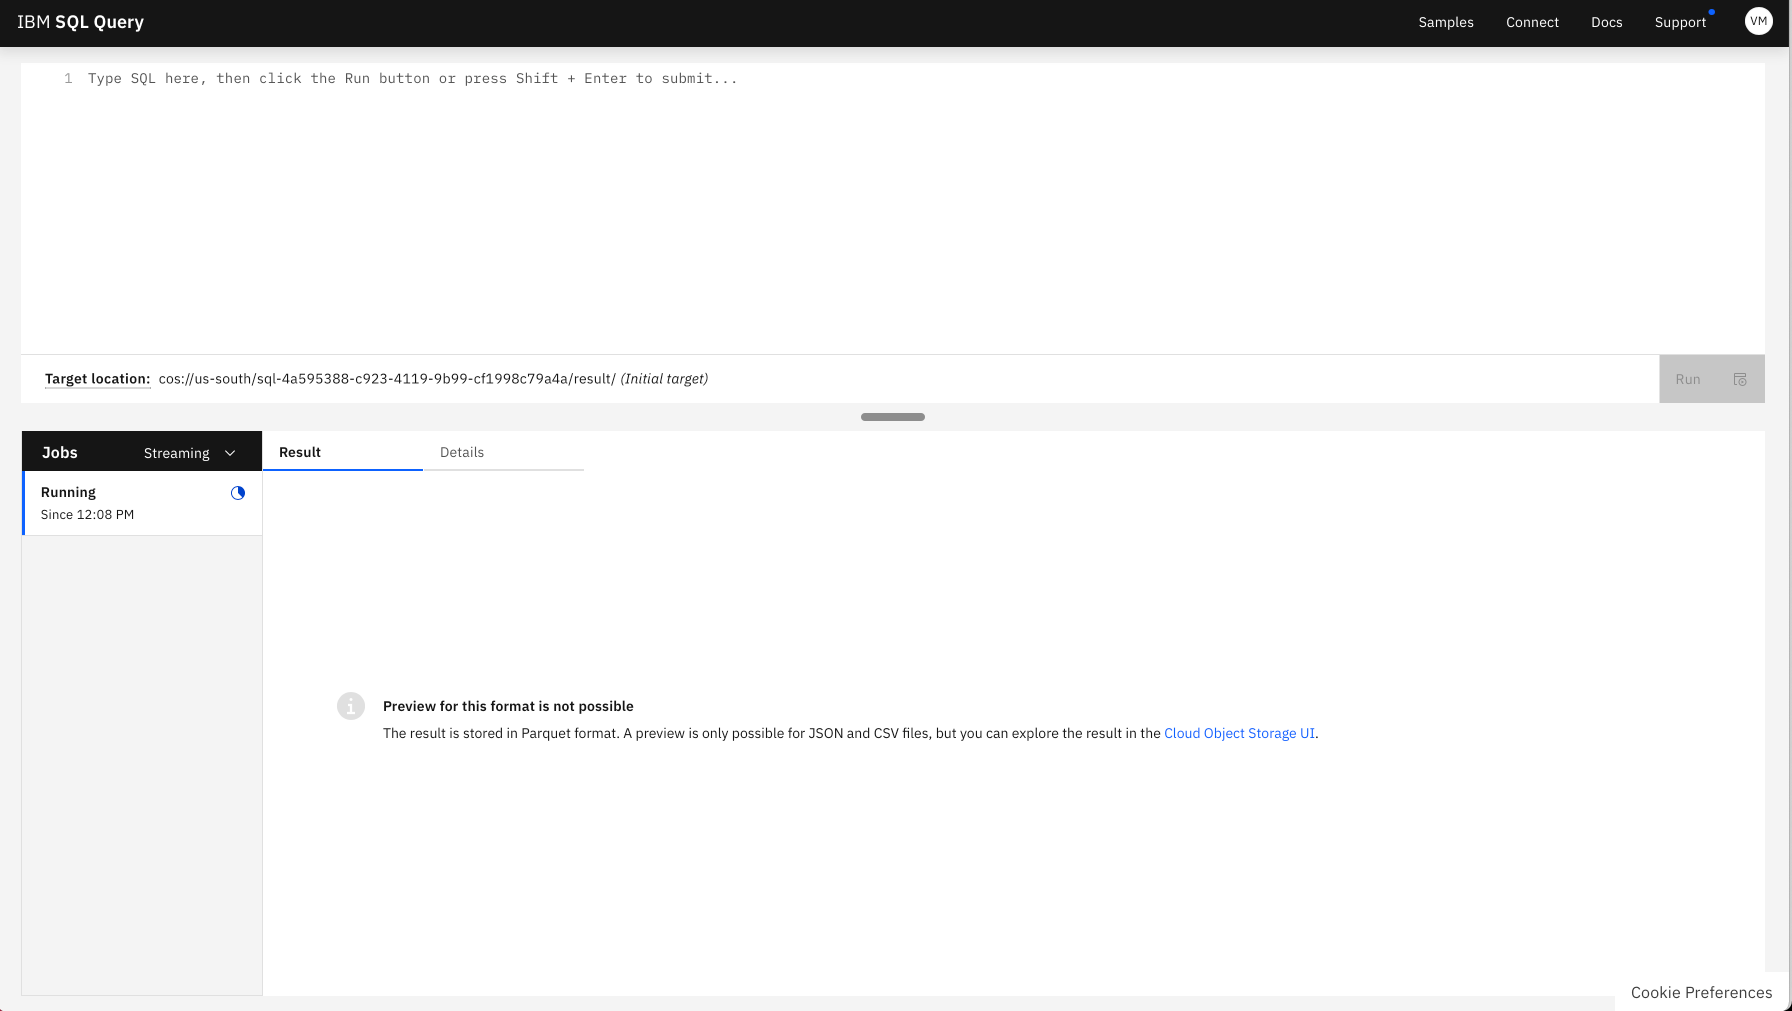
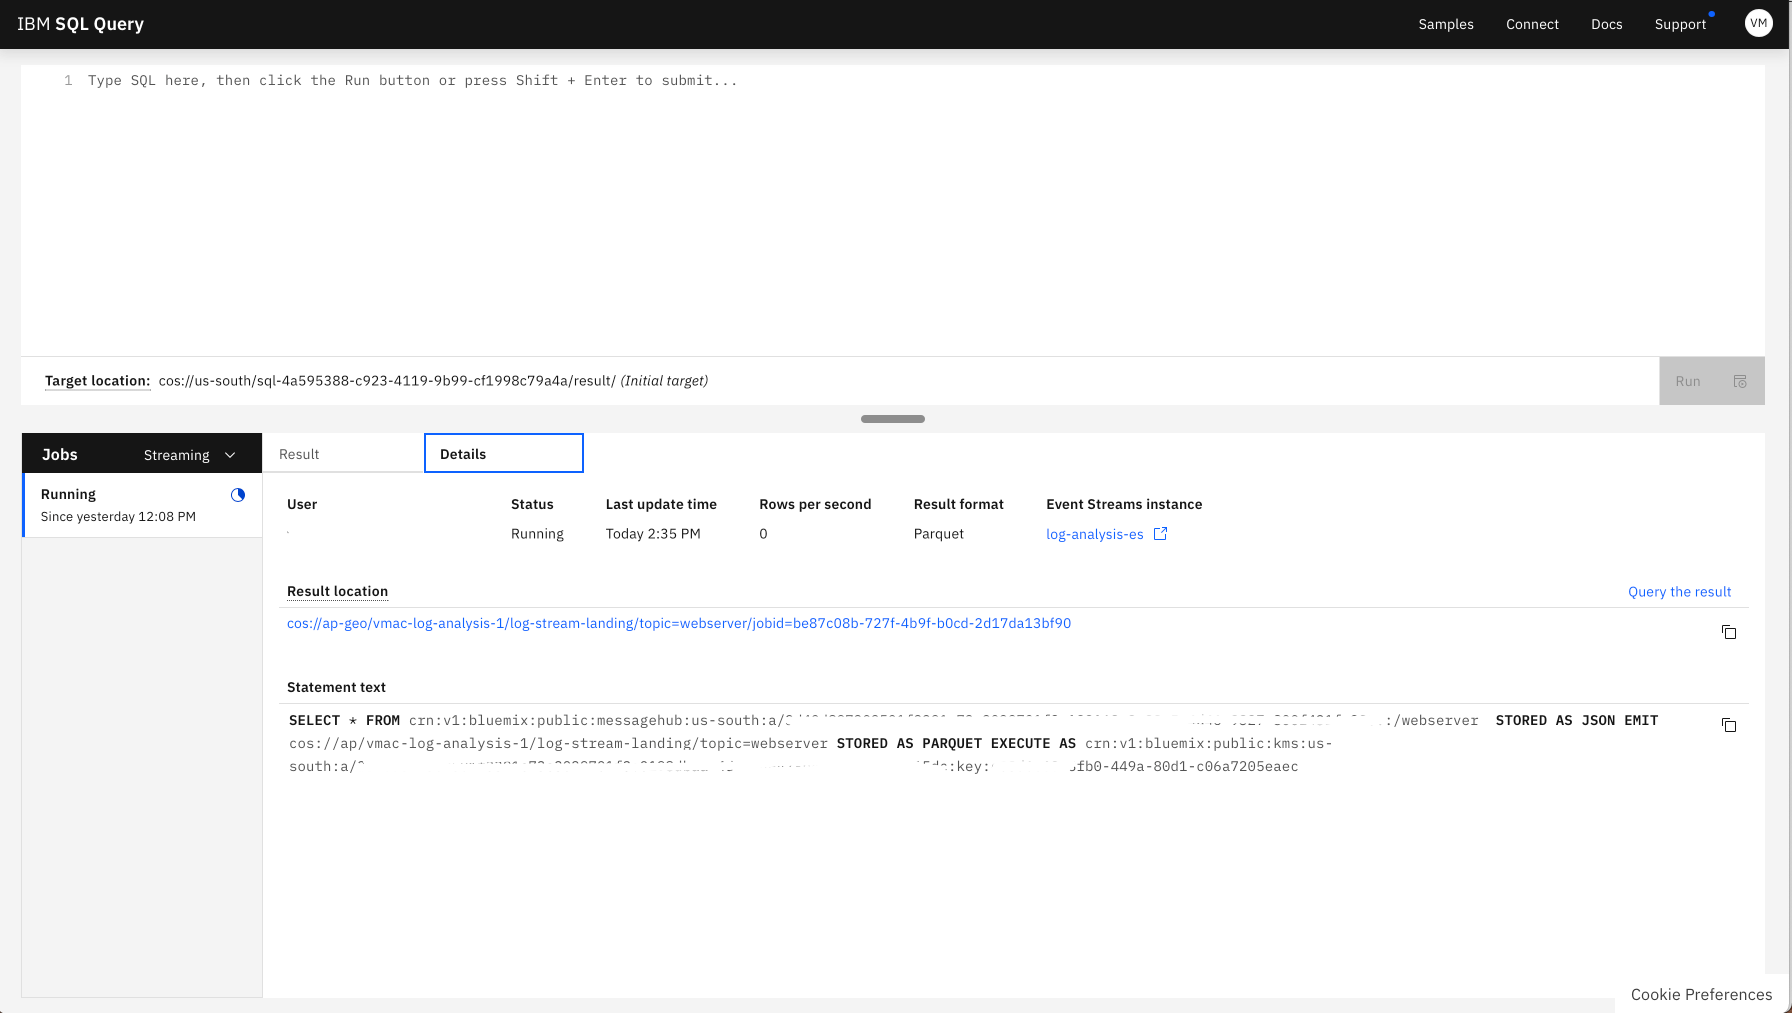
Updated based on review comments

diff --git a/big-data-log-analytics.md b/big-data-log-analytics.md
@@ -62,35 +62,19 @@ While this tutorial focuses on log analysis, it is applicable to other scenarios
 {: #big-data-log-analytics-prereqs}
 
 This tutorial requires:
-* {{site.data.keyword.cloud_notm}} CLI,
-   * {{site.data.keyword.cos_full_notm}} plugin (`cloud-object-storage`),
 * `git` to clone source code repository.
 
 <!--##istutorial#-->
 You will find instructions to download and install these tools for your operating environment in the [Getting started with tutorials](/docs/solution-tutorials?topic=solution-tutorials-tutorials) guide.
 <!--#/istutorial#-->
 
-In addition, [install Node.js](https://nodejs.org).
+In addition, [install the latest version of Node.js](https://nodejs.org).
 
 ## Create services
 {: #big-data-log-analytics-setup}
 {: step}
 
 In this section, you will create the services required to perform analysis of log events generated by your applications.
-
-### Encrypt your data and secure your keys
-{: #big-data-log-analytics-new-kp}
-
-Key Protect helps you provision encrypted keys for apps across IBM Cloud services. It will be used to encrypt the storage bucket, stored SQL query jobs and securely store the service ID for stream landing.
-
-1. Create an instance of [{{site.data.keyword.keymanagementserviceshort}}](https://{DomainName}/catalog/services/kms).
-   1. Select a **location**.
-   2. Set the name to **log-analysis-kp**.
-   3. Select the **resource group** where to create the service instance and click **Create**.
-2. Under **Keys**, click the **Add** button to create a new root key.
-   1. Set the key type to **Root key**.
-   2. Set the name to **log-analysis-root-enckey**.
-   3. Then **Add key**.
 
 ### Stream messages in real-time
 {: #big-data-log-analytics-new-eventstreams}
@@ -108,6 +92,22 @@ Key Protect helps you provision encrypted keys for apps across IBM Cloud service
    1. Provide a name for the credential - `es-for-log-analysis`.
    2. select **Writer** as the role and click **Add**.
 4. Make note of the values. They will be used in the `event-streams.config` file in the next section.
+
+### Encrypt your data and secure your keys
+{: #big-data-log-analytics-new-kp}
+
+{{site.data.keyword.keymanagementserviceshort}} helps you provision encrypted keys for apps across {{site.data.keyword.cloud_notm}} services. 
+
+In this tutorial, {{site.data.keyword.keymanagementserviceshort}} service will be used to encrypt the storage bucket, stored SQL query jobs and securely store the service ID for stream landing.
+
+1. Create an instance of [{{site.data.keyword.keymanagementserviceshort}}](https://{DomainName}/catalog/services/kms).
+   1. Select a **location**.
+   2. Set the name to **log-analysis-kp**.
+   3. Select the **resource group** where to create the service instance and click **Create**.
+2. Under **Keys**, click the **Add** button to create a new root key.
+   1. Set the key type to **Root key**.
+   2. Set the name to **log-analysis-root-enckey**.
+   3. Then **Add key**.
 
 ### Setup storage to persist the messages from {{site.data.keyword.messagehub}}
 {: #big-data-log-analytics-new-cos}
@@ -138,7 +138,7 @@ Finally create the bucket.
 2. Under **Buckets**, create a **Custom bucket** named `<your-initial>-log-analysis` with **Cross Region** resiliency, a **Location** near to you and a **Smart Tier** storage class.
 3. Under **Service integrations (optional) / Encryption**, enable **Key management**
    1. Select the {{site.data.keyword.keymanagementserviceshort}} service instance created earlier by clicking on **Use existing instance**
-   2. Select **secure-file-storage-root-enckey** as the key and click **Associate key**.
+   2. Select **log-analysis-root-enckey** as the key and click **Associate key**.
 
 ### Stream land the log data to {{site.data.keyword.cos_short}}
 {: #big-data-log-analytics-new-sqlquery}
@@ -147,11 +147,11 @@ Finally create the bucket.
    1. Select a region.
    2. Select the **Standard** plan.
    3. Set the **Service name** to **log-analysis-sql**.
-   4. Select a **Resource group** and click **Create**.
-   5. Select **Encrypt with user-managed-key** and then select the {{site.data.keyword.keymanagementserviceshort}} service `log-analysis-kp` with the root key.
+   4. Select a **Resource group**.
+   5. Select **Encrypt with user-managed key** and then select the {{site.data.keyword.keymanagementserviceshort}} service `log-analysis-kp` with the root key.
    6. Click **Create**.
 
-### {{site.data.keyword.iae_short}}
+### Inspect log data with {{site.data.keyword.iae_short}}
 {: #big-data-log-analytics-new-iae}
 
 1. Create an instance of [{{site.data.keyword.iae_short}}](https://{DomainName}/catalog/services/analytics-engine).
@@ -179,11 +179,13 @@ Finally create the bucket.
       - `identifier` is the name of the name of the {{site.data.keyword.cos_short}} service (`log-analysis-cos`),
       - `access_key_id` and `secret_access_key` are found in the service credentials created earlier.
       - `cosEndpoint` is a private endpoint to access the {{site.data.keyword.cos_short}} bucket.
-6. Click **Create**. Once the service is provisioned, go to **Manage** to retrieve the user name and password for the cluster. You may need to reset the cluster password.
-7. Under **Service credentials**, create **New credential**.
+6. Click **Create**. _The service provisioning may take upto 5 minutes. You can continue with the other steps of the tutorial_.
+7. Once the service is provisioned, go to **Manage** to retrieve the user name and password for the cluster. You may need to reset the cluster password.
+8. Under **Service credentials**, create **New credential**.
    * Provide `iae-for-log-analysis` as the credential name.
    * Select **Writer** as the role and click **Add**.
-8. From the credentials, make note of the `ssh` value giving the *ssh* command line to execute to connect to the cluster.
+9. From the credentials, make note of the `ssh` value giving the *ssh* command line to execute to connect to the cluster.
+
 
 ## Streams landing from {{site.data.keyword.messagehub}} to Cloud {{site.data.keyword.cos_short}}
 {: #big-data-log-analytics-configure-streams}
@@ -192,7 +194,9 @@ Finally create the bucket.
 ### Configure stream landing
 {: #big-data-log-analytics-streamlanding}
 
-In this section, you will learn how to run a fully-managed stream data ingestion from {{site.data.keyword.messagehub}} into Parquet on {{site.data.keyword.cos_full_notm}}. {{site.data.keyword.messagehub}} is directly integrated with the {{site.data.keyword.sqlquery_notm}} service, allowing for Streams landing from the {{site.data.keyword.messagehub}} for {{site.data.keyword.cloud_notm}} service into {{site.data.keyword.cloud_notm}} Data Lake on {{site.data.keyword.cos_full_notm}}.
+In this section, you will learn how to run a fully-managed stream data ingestion from {{site.data.keyword.messagehub}} into Parquet on {{site.data.keyword.cos_full_notm}}. {{site.data.keyword.sqlquery_notm}} is the key component in the Stream Landing approach. It is the service that connects to {{site.data.keyword.messagehub}} and copies the data to {{site.data.keyword.cos_full_notm}}.
+
+Parquet is an open source file format for Hadoop. Parquet stores nested data structures in a flat columnar format. Compared to the traditional approach where data is stored in rows, Parquet is more efficient in terms of storage and performance.
 
 1. In your browser, navigate to the [resource list](https://{DomainName}/resources) and under **Services and software**, click on {{site.data.keyword.messagehub}} `log-analysis-es` service.
 2. Select **Topics** from the navigation pane on the left.
@@ -209,7 +213,7 @@ In this section, you will learn how to run a fully-managed stream data ingestion
    5. Click **Start streaming data**.
    ![Stream landing configuration](images/solution31/stream_landing_configuration.png)
 
-You now see the status `Queued` for your topic. It can take one or two minutes until the streaming job is fully dispatched and up and running. You will see the status switch to `Running` at that point. In the context menu, you find a new option called `View stream landing configuration`.
+You now see the status `Queued` for your topic. It may take upto 5 minutes until the streaming job is fully dispatched and up and running. You will see the status switch to `Running` at that point. In the context menu, you find a new option called `View stream landing configuration`.
 
 
 ### Using Kafka console tools with {{site.data.keyword.messagehub}}
@@ -229,9 +233,9 @@ The streaming job is currently idle and awaiting messages. In this section, you 
    ```
    {: codeblock}
 3. Replace `USER` and `PASSWORD` in your `event-streams.config` file with the `user` and `password` values seen in **Service Credentials** from the {{site.data.keyword.messagehub}} service. Save `event-streams.config`.
-4. From the `bin` directory, run the following command. Replace `KAFKA_BROKERS_SASL` with the `kafka_brokers_sasl` value seen in **Service Credentials**. An example is provided.
+4. From the `bin` directory, run the following command. An example is provided.
     ```sh
-    ./kafka-console-producer.sh --broker-list KAFKA_BROKERS_SASL --producer.config event-streams.config --topic webserver
+    ./kafka-console-producer.sh --broker-list $(ibmcloud resource service-key es-for-log-analysis --output json | jq -r '.[0].credentials.kafka_brokers_sasl | join(",")') --producer.config event-streams.config --topic webserver
     ```
     {: pre}
     ```sh
@@ -255,30 +259,38 @@ You can check the landed data in the {{site.data.keyword.sqlquery_short}} UI and
 
 1. Navigate to the [resource list](https://{DomainName}/resources) and under **Services and software**, click on `log-analysis-sql` service.
 2. Click on **Launch {{site.data.keyword.sqlquery_short}} UI** to open the {{site.data.keyword.sqlquery_short}} UI. You should see the streaming job `Running`. 
-   ![SQL Query console](images/solution31/sql_query_console.png)
 3. Click on the **Details** tab to see the actual SQL statement that was submitted to {{site.data.keyword.sqlquery_short}} for the stream landing. 
+   ![SQL Query console](images/solution31/sql_query_console.png)
+
+   The Select statement would looks like 
+   ```sql
+   SELECT * FROM <EVENT_STREAMS_CRN>/webserver 
+   STORED AS JSON EMIT cos://<REGION>/<BUCKET_NAME>/logs-stream-landing/topic=webserver 
+   STORED AS PARQUET EXECUTE AS <KEY_PROTECT_CRN_WITH_KEY>
+   ```
+   {:codeblock}
 
    It is a SELECT statement from your {{site.data.keyword.messagehub}} instance and topic (identified via the unique CRN) and the selected data is emitted (EMIT) to your {{site.data.keyword.cos_short}} bucket AS PARQUET format. The operation is executed (EXECUTE) with the service ID's API key that is stored in the {{site.data.keyword.keymanagementserviceshort}} instance.
    {:tip}
 
 4. Click on the link in the `Result location` field, which opens the {{site.data.keyword.cos_short}} UI with a filter set to the objects that are being written by that job. 
+   ![](images/solution31/cos_object_view.png)
    
-   You see that there are a couple of metadata objects to track, such as the latest offset that has been consumed and landed. But, in addition, you can find the Parquet files with the actual payload data.
-   {:tip}
+   In the COS UI, switch to `object view` by clicking on the icon next to `Upload`, You should see that there are a couple of metadata objects to track, such as the latest offset that has been consumed and landed. But, in addition, you can find the Parquet files with the actual payload data.
+   {:tip} 
 
-4. Return to the {{site.data.keyword.sqlquery_short}} UI and Click on **Query the result** and then click **Run** to execute a `Batch job`. You should see the query in the panel pointing to the {{site.data.keyword.cos_short}} file (under `FROM`) with the log message(s) you sent above. Wait for the job to change to `Completed`.
+5. Return to the {{site.data.keyword.sqlquery_short}} UI and Click on **Query the result** and then click **Run** to execute a `Batch job`. You should see the query in the panel pointing to the {{site.data.keyword.cos_short}} file (under `FROM`) with the log message(s) you sent above. Wait for the job to change to `Completed`.
+6. Click on the **Results** tab to see the log messages in a tabular format.
    
-   The query also saves the result to a `CSV` file under a different bucket with name `sql-<SQL_QUERY_GUID>`. Check the `INTO` part of the query.
+   The query saves the result to a `CSV` file under a different bucket with name `sql-<SQL_QUERY_GUID>`. Check the `INTO` part of the query.
    {:tip}
-
-5. Click on the **Results** tab to see the log messages in a tabular format.
 
 ### Increasing message load
 {: #big-data-log-analytics-streamsload}
 
 To view conditional handling in your Streams flow, you will increase the message volume sent to {{site.data.keyword.messagehub}}. The provided Node.js program simulates a realistic flow of messages to {{site.data.keyword.messagehub}} based on traffic to the webserver. To demonstrate the scalability of {{site.data.keyword.messagehub}}, you will increase the throughput of log messages.
 
-This section uses [node-rdkafka](https://www.npmjs.com/package/node-rdkafka). See the npmjs page for troubleshooting instructions if the simulator installation fails. If problems persist, you can skip to the next section and manually upload the data.
+This section uses [node-rdkafka](https://www.npmjs.com/package/node-rdkafka). See the npmjs page for troubleshooting instructions if the simulator installation fails.
 
 1. Download and unzip the [Jul 01 to Jul 31, ASCII format, 20.7 MB gzip compressed](ftp://ita.ee.lbl.gov/traces/NASA_access_log_Jul95.gz) log file from NASA.
 2. Clone the log simulator from [IBM-Cloud on GitHub](https://github.com/IBM-Cloud/kafka-log-simulator) and Change to the simulator's directory
@@ -315,12 +327,11 @@ This section uses [node-rdkafka](https://www.npmjs.com/package/node-rdkafka). Se
    {:tip}
 
 4. Stop the simulator after a desired number of messages have been stream landed using `control+C`.
-5. In your browser, return to the {{site.data.keyword.sqlquery_short}} UI and Click on **Query the result** and then click **Run** to see the messaged feed under the `Results` tab of the batch job.
+5. In your browser, return to the {{site.data.keyword.sqlquery_short}} UI and Click on **Query the result** and then click **Run** to see the messaged feed under the `Results` tab of the batch job. 
 6. Experiment with {{site.data.keyword.messagehub}} scaling by increasing or decreasing the `--rate` value.
 
 The simulator will delay sending the next message based on the elapsed time in the webserver log. Setting `--rate 1` sends events in realtime. Setting `--rate 100` means that for every 1 second of elapsed time in the webserver log a 10ms delay between messages is used. Setting `--rate 0` sends all events immediately with no delay between events.
 {: tip}
-
 
 ## Investigating log data using {{site.data.keyword.sqlquery_short}}
 {: #big-data-log-analytics-sqlquery}
@@ -473,9 +484,9 @@ The data pushed to cos can be also queried using Apache Spark that is part of th
    df = spark.read.parquet('cos://<bucketname>.<identifier>/<objectname>')
    ```
    {: codeblock}
-   For example, if the name of the bucket is `<your-initial>-log-analysis`, service name is `log-analysis-cos` and the path to the file is nasadata/:
+   For example, if the name of the bucket is `<your-initial>-log-analysis`, service name is `log-analysis-cos` and the path to the file is logs-stream-landing/:
    ```sh
-   df = spark.read.parquet('cos://<your-initial>-log-analysis.log-analysis-cos/nasadata/NASA_access_log_Jul95.snappy.parquet')
+   df = spark.read.parquet('cos://<your-initial>-log-analysis.log-analysis-cos/logs-stream-landing/topic=webserver/jobid=<JOBID>/part-00000-xxxxx-<TIME>.snappy.parquet')
    ```
    {: codeblock}
 4. Any SQL query can be performed on the data and the result can be stored in a new dataframe.
@@ -486,14 +497,12 @@ The data pushed to cos can be also queried using Apache Spark that is part of th
    df_query.show(10)
    ```
    {: codeblock}
-   The query given here can be replaced with any other query which needs to be performed.
 
 ## Expand the tutorial
 {: #big-data-log-analytics-expand}
 
 Congratulations, you have built a log analysis pipeline with {{site.data.keyword.cloud_notm}}. Below are additional suggestions to enhance your solution.
 
-* Use additional targets in Streams Designer to store data in [{{site.data.keyword.cloudant_short_notm}}](https://{DomainName}/catalog/services/cloudant) or execute code in [{{site.data.keyword.openwhisk_short}}](https://{DomainName}/openwhisk)
 * Follow the [Build a data lake using {{site.data.keyword.cos_short}}](https://{DomainName}/docs/solution-tutorials?topic=solution-tutorials-smart-data-lake) tutorial to add a dashboard to log data
 * Integrate additional systems with {{site.data.keyword.messagehub}} using [{{site.data.keyword.appconserviceshort}}](https://{DomainName}/catalog/services/app-connect).
 
@@ -503,7 +512,6 @@ Congratulations, you have built a log analysis pipeline with {{site.data.keyword
 
 From the [Resource List](https://{DomainName}/resources?search=log-analysis), use the **Delete** or **Delete service** menu item in the overflow menu to remove the following service instances.
 
-* log-analysis-sa
 * log-analysis-es
 * log-analysis-sql
 * log-analysis-cos
